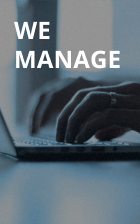
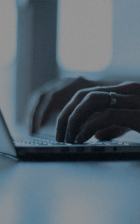
refactoring

Changed region(s): [[0.1143, 0.2188, 0.8571, 0.3125], [0.0857, 0.0938, 0.3714, 0.1875]]

diff --git a/index.html b/index.html
@@ -67,14 +67,17 @@
                   </p>
                 </div>
                 <div class="ourStory__images">
-                  <div class="">
-                    <img class="ourStory__img" src="./src/images/plan.png" alt="plan" />
+                  <div class="ourStory__box">
+                    <img class="ourStory__img ourStory__img_left" src="./src/images/plan.png" alt="plan" />
+                    <p class="ourStory__text">we<br>plan</p>
                   </div>
-                  <div class="">
-                    <img class="ourStory__img" src="./src/images/manage.png" alt="manage" />
+                  <div class="ourStory__box">
+                    <img class="ourStory__img ourStory__img_centr " src="./src/images/manage.png" alt="manage" />
+                    <p class="ourStory__text">we<br>manage</p>
                   </div>
-                  <div class="">
-                    <img class="ourStory__img" src="./src/images/deliver.png" alt="" />
+                  <div class="ourStory__box">
+                    <img class="ourStory__img ourStory__img_right" src="./src/images/build.png" alt="" />
+                    <p class="ourStory__text">we</br>build</p>
                   </div>
                 </div>
               </div>

diff --git a/css/_ourStory.sass b/css/_ourStory.sass
@@ -20,7 +20,7 @@
   left: 50%
   width: 50px
   height: 0
-  border: solid 2px 
+  border: solid 2px
   position: absolute
   transform: translate(-50% ,-50%)
   color: $cBlue
@@ -35,7 +35,7 @@
   letter-spacing: 0.1875px
 
 .ourStory__headline span
-  color:$cBlue
+  color: $cBlue
 
 .ourStory__content
   display: flex
@@ -46,7 +46,7 @@
   display: flex
   flex-direction: column
   gap: 30px
-  margin: 0 50px 0 0 
+  margin: 0 50px 0 0
   width: 438px
 
 .ourStory__images
@@ -54,9 +54,23 @@
   gap: 25px
 
 .ourStory__img
- width: 100%
- height: 100%
+  display: block
+  width: 100%
+  height: 100%
 
+.ourStory__box
+  position: relative
 
-
-
+.ourStory__text
+  top:15px
+  left: 15px
+  text-transform: uppercase
+  z-index: 99 
+  position: absolute
+  font-family: 'Open Sans'
+  font-style: normal
+  font-weight: 700
+  font-size: 24px
+  line-height: 29px
+  letter-spacing: 0.1875px
+  color: #FFFFFF

diff --git a/css/style.css b/css/style.css
@@ -188,8 +188,28 @@ h1, h2, h3, p {
 }
 
 .ourStory__img {
+  display: block;
   width: 100%;
   height: 100%;
+}
+
+.ourStory__box {
+  position: relative;
+}
+
+.ourStory__text {
+  top: 15px;
+  left: 15px;
+  text-transform: uppercase;
+  z-index: 99;
+  position: absolute;
+  font-family: "Open Sans";
+  font-style: normal;
+  font-weight: 700;
+  font-size: 24px;
+  line-height: 29px;
+  letter-spacing: 0.1875px;
+  color: #FFFFFF;
 }
 
 .services {
